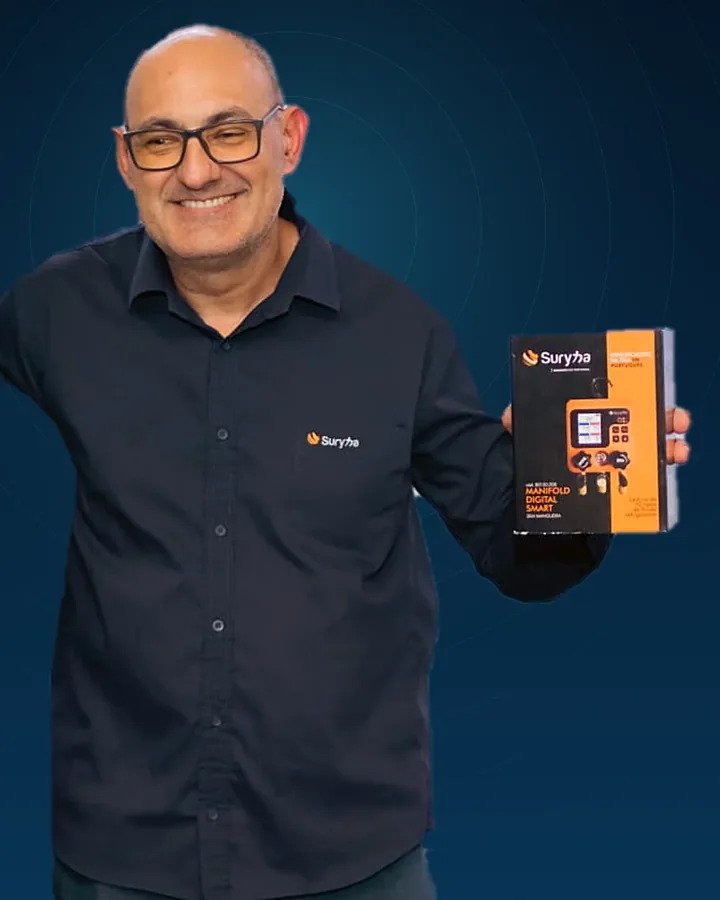
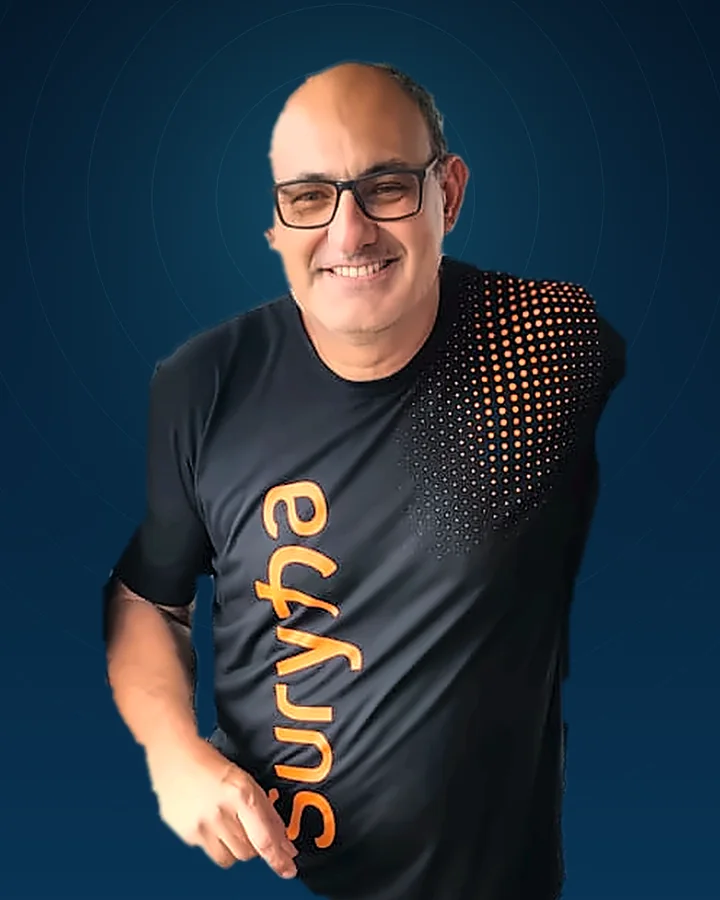
feat: nova foto do Alexandre (camiseta Suryha), recortada e tratada sobre o fundo da marca

diff --git a/build.py b/build.py
@@ -665,7 +665,7 @@ def home() -> str:
 <section class="secao" id="quem-atende" aria-labelledby="quem-titulo">
  <div class="contem quem">
   <figure class="quem__foto revela" data-tilt>
-   <img src="{alex['foto']}" alt="Alexandre Bunn, representante da M.A Joaquim, segurando um manifold digital Suryha" width="{w}" height="{h}" loading="lazy" decoding="async">
+   <img src="{alex['foto']}" alt="Alexandre Bunn, representante da M.A Joaquim, sorrindo, de óculos e camiseta da Suryha" width="{w}" height="{h}" loading="lazy" decoding="async">
   </figure>
   <div class="quem__texto">
    <p class="olho">Quem atende</p>
